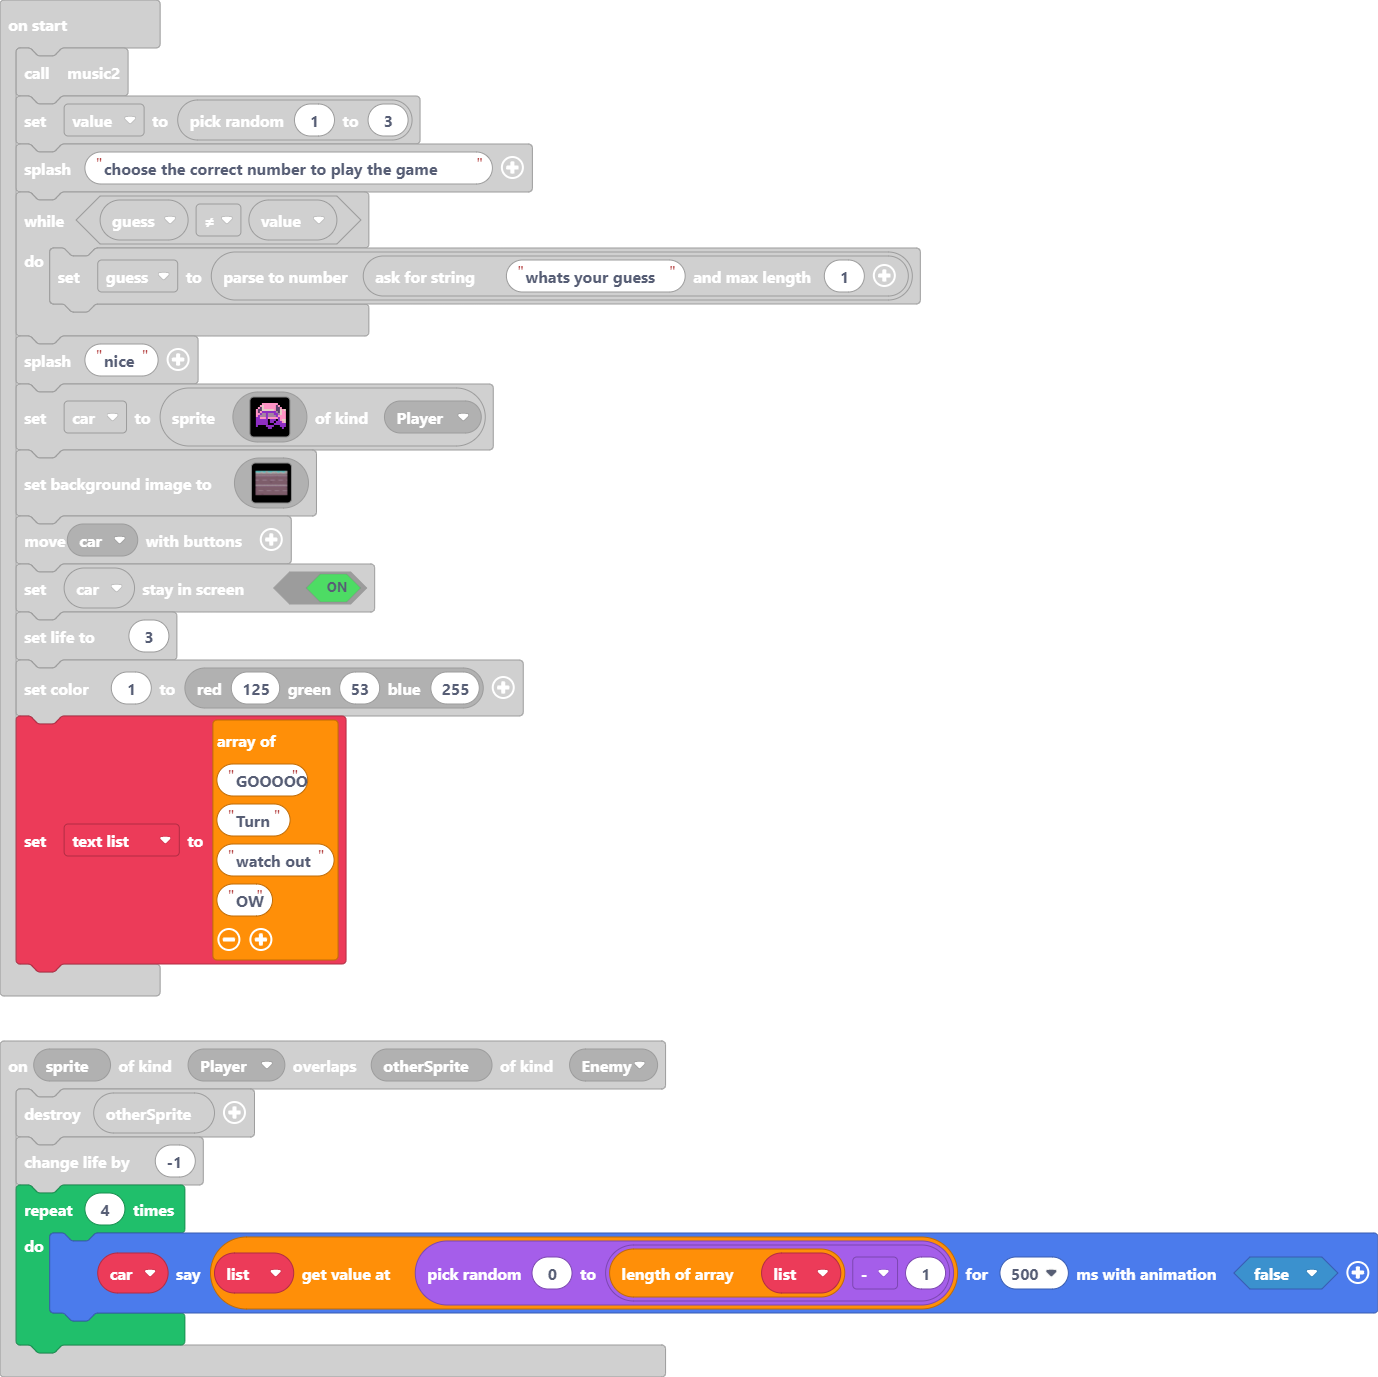
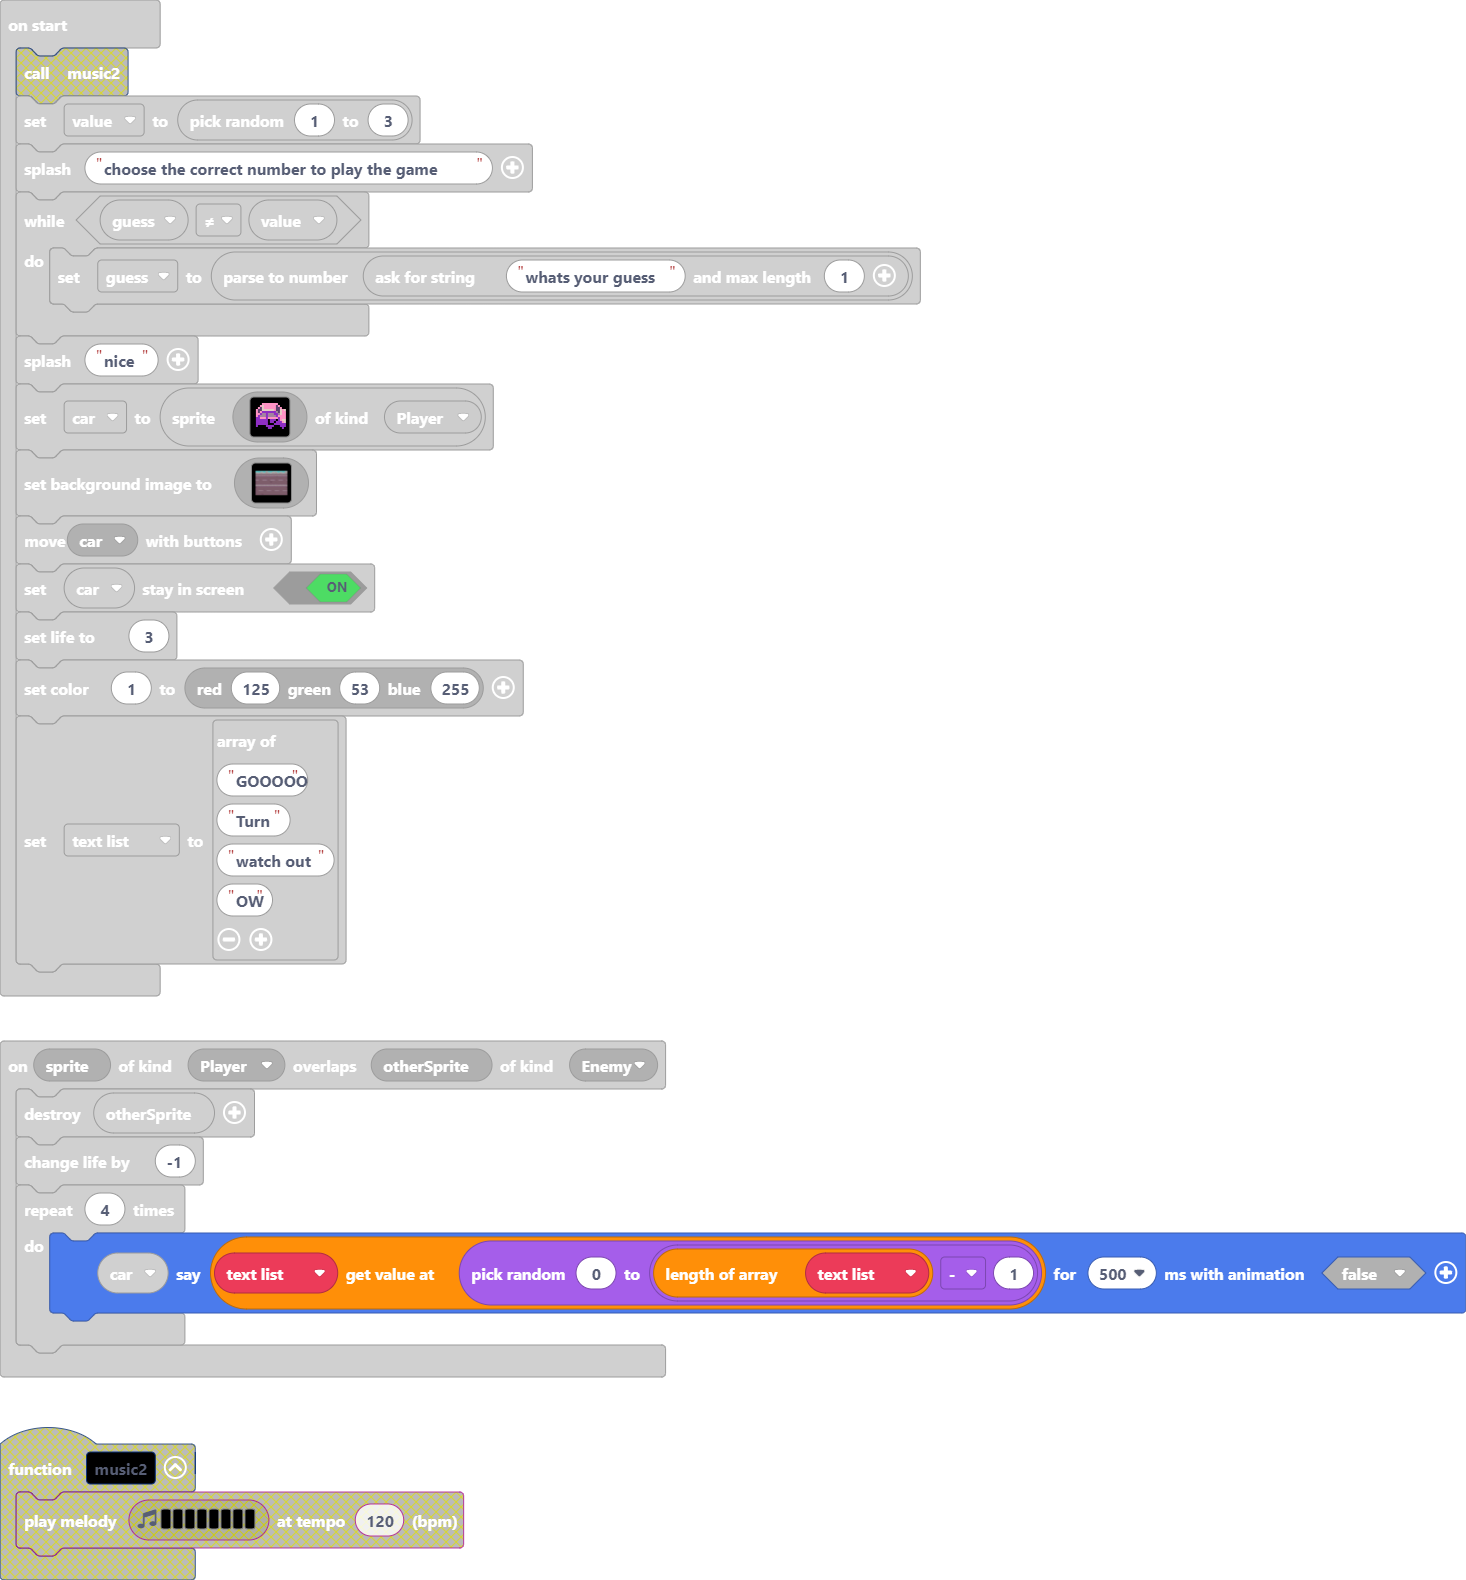
Update main.blocks, main.ts

Changed region(s): [[0.0, 0.0, 1.0, 1.0]]

diff --git a/main.ts b/main.ts
@@ -1,18 +1,14 @@
-function music2 () {
-    music.playMelody("D D A A B B A A ", 120)
-}
 sprites.onOverlap(SpriteKind.Player, SpriteKind.Enemy, function (sprite, otherSprite) {
     otherSprite.destroy()
     info.changeLifeBy(-1)
     for (let index = 0; index < 4; index++) {
-        let list: number[] = []
-        car.sayText(list[randint(0, list.length - 1)], 500, false)
+        car.sayText(text_list[randint(0, text_list.length - 1)], 500, false)
     }
 })
 let monkey: Sprite = null
+let text_list: string[] = []
 let car: Sprite = null
 let guess = 0
-music2()
 let value = randint(1, 3)
 game.splash("choose the correct number to play the game")
 while (guess != value) {
@@ -163,7 +159,7 @@ controller.moveSprite(car)
 car.setStayInScreen(true)
 info.setLife(3)
 color.setColor(1, color.rgb(125, 53, 255))
-let text_list = [
+text_list = [
 "GOOOOO",
 "Turn",
 "watch out",
